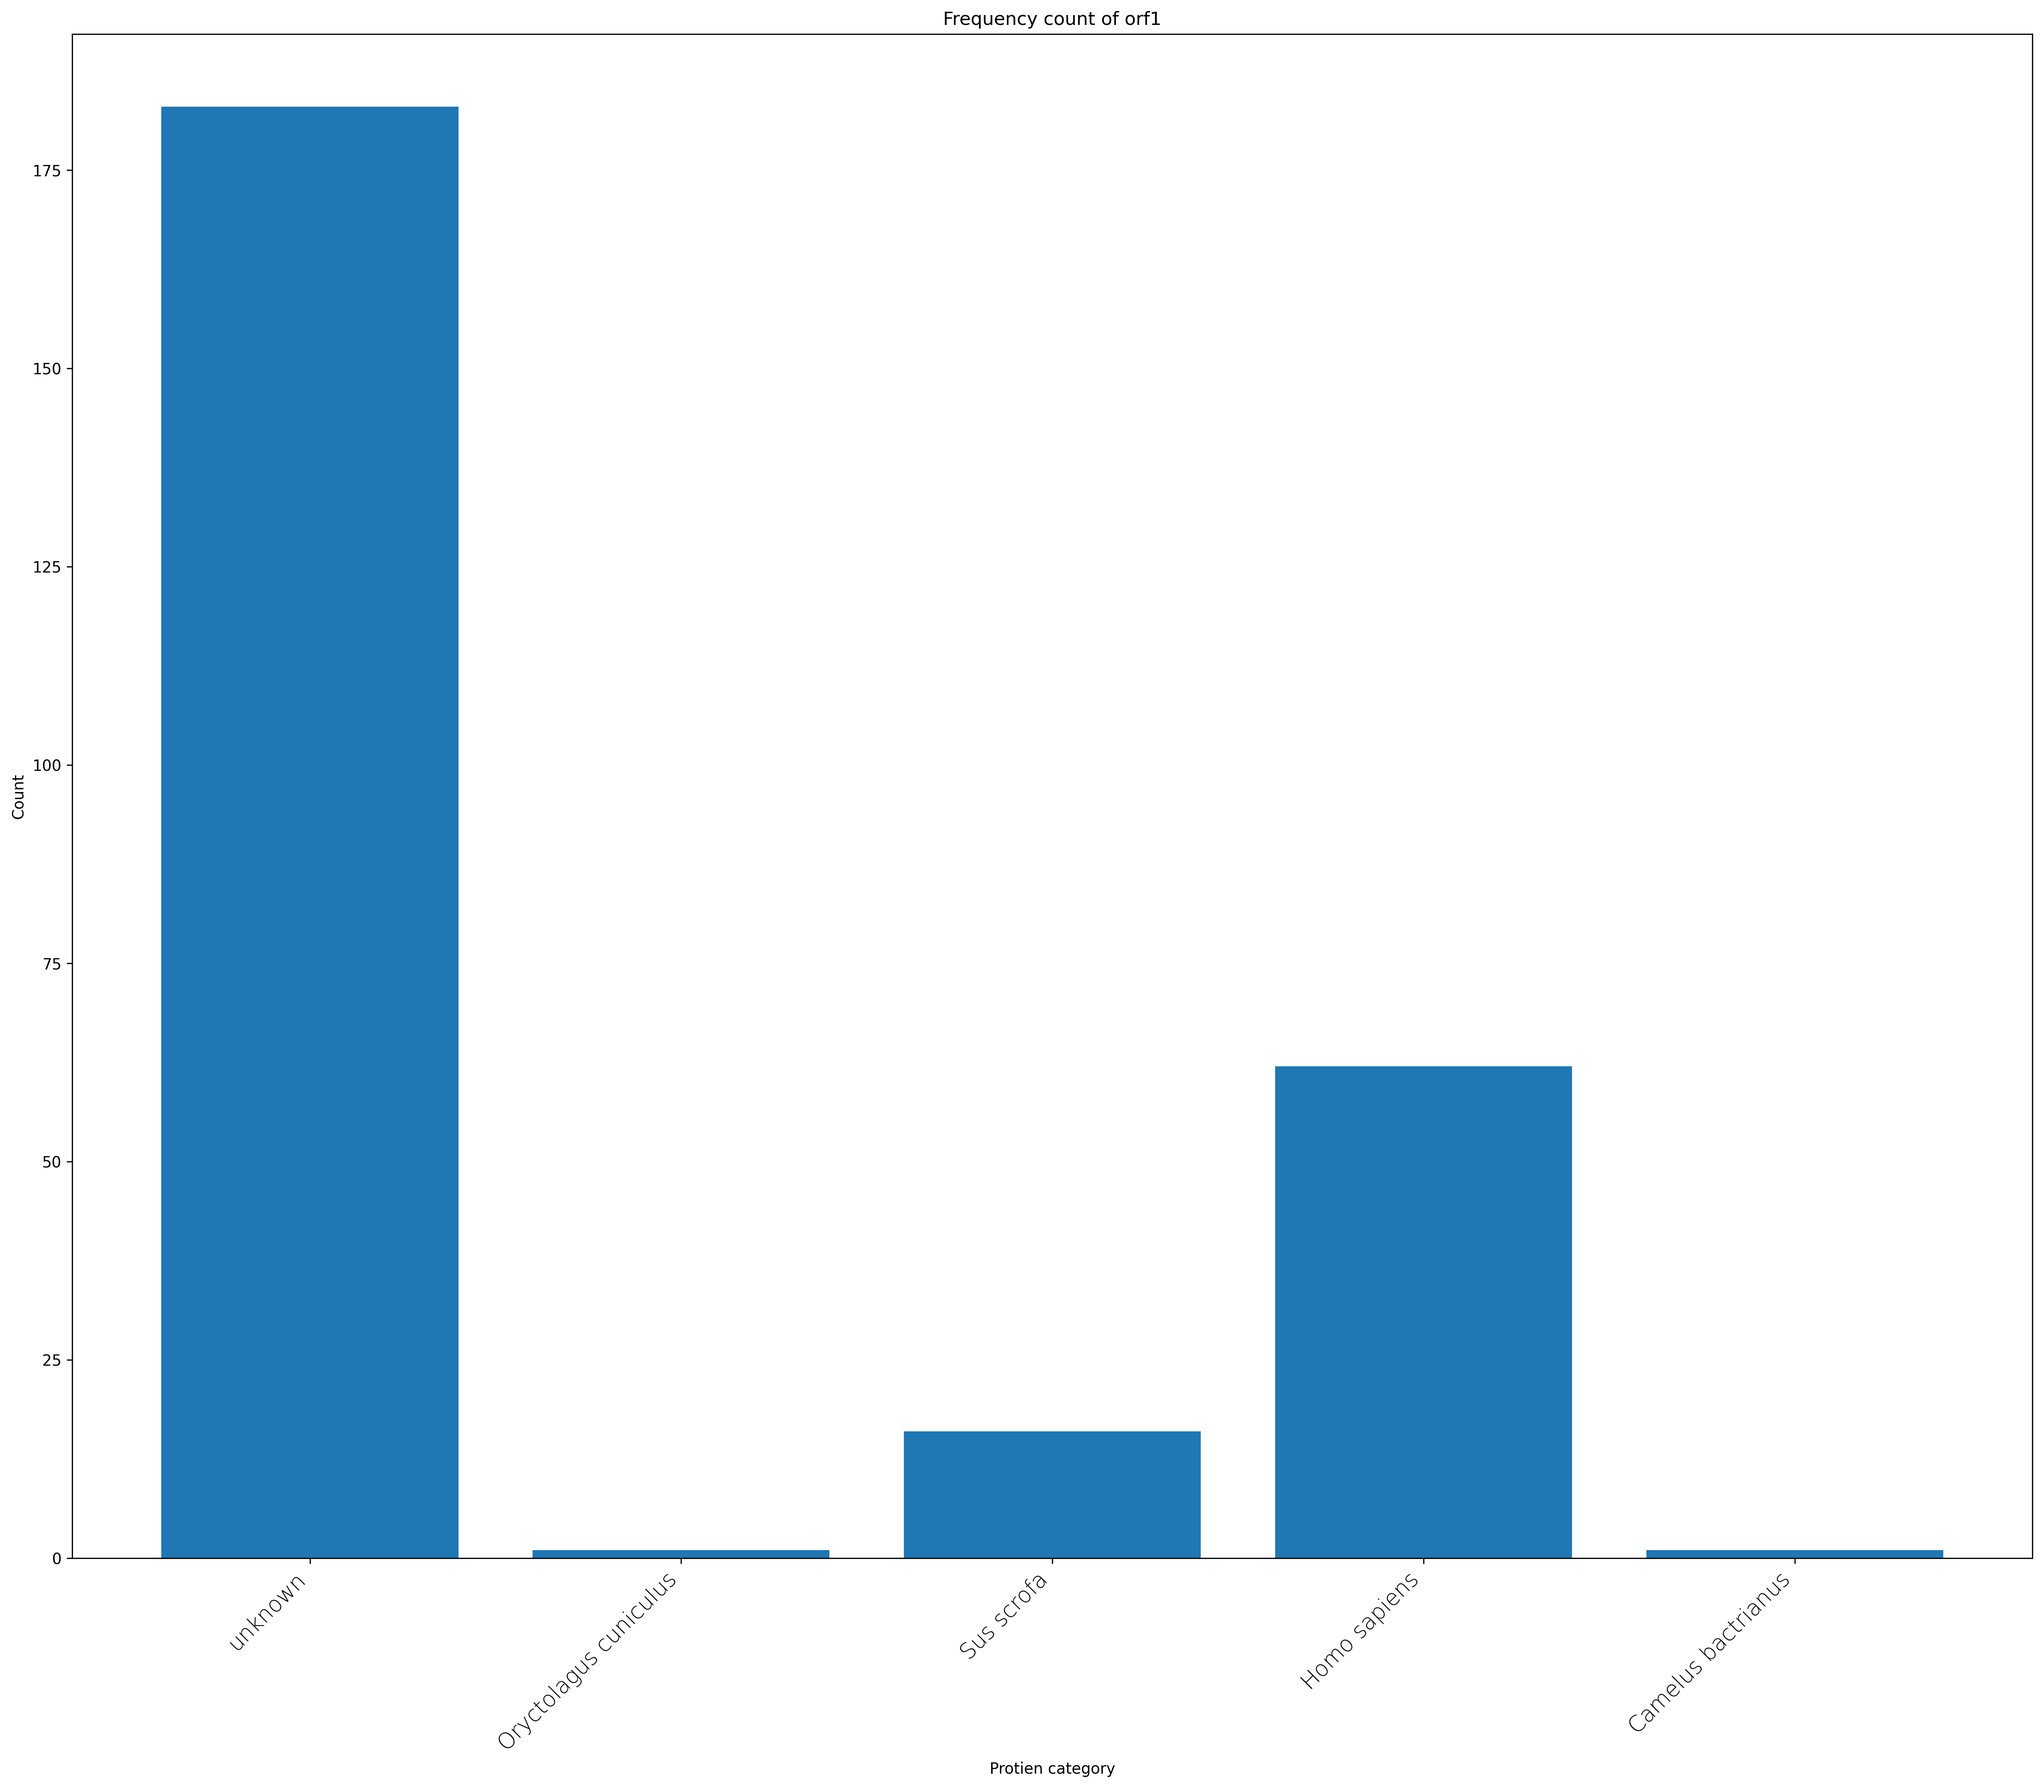
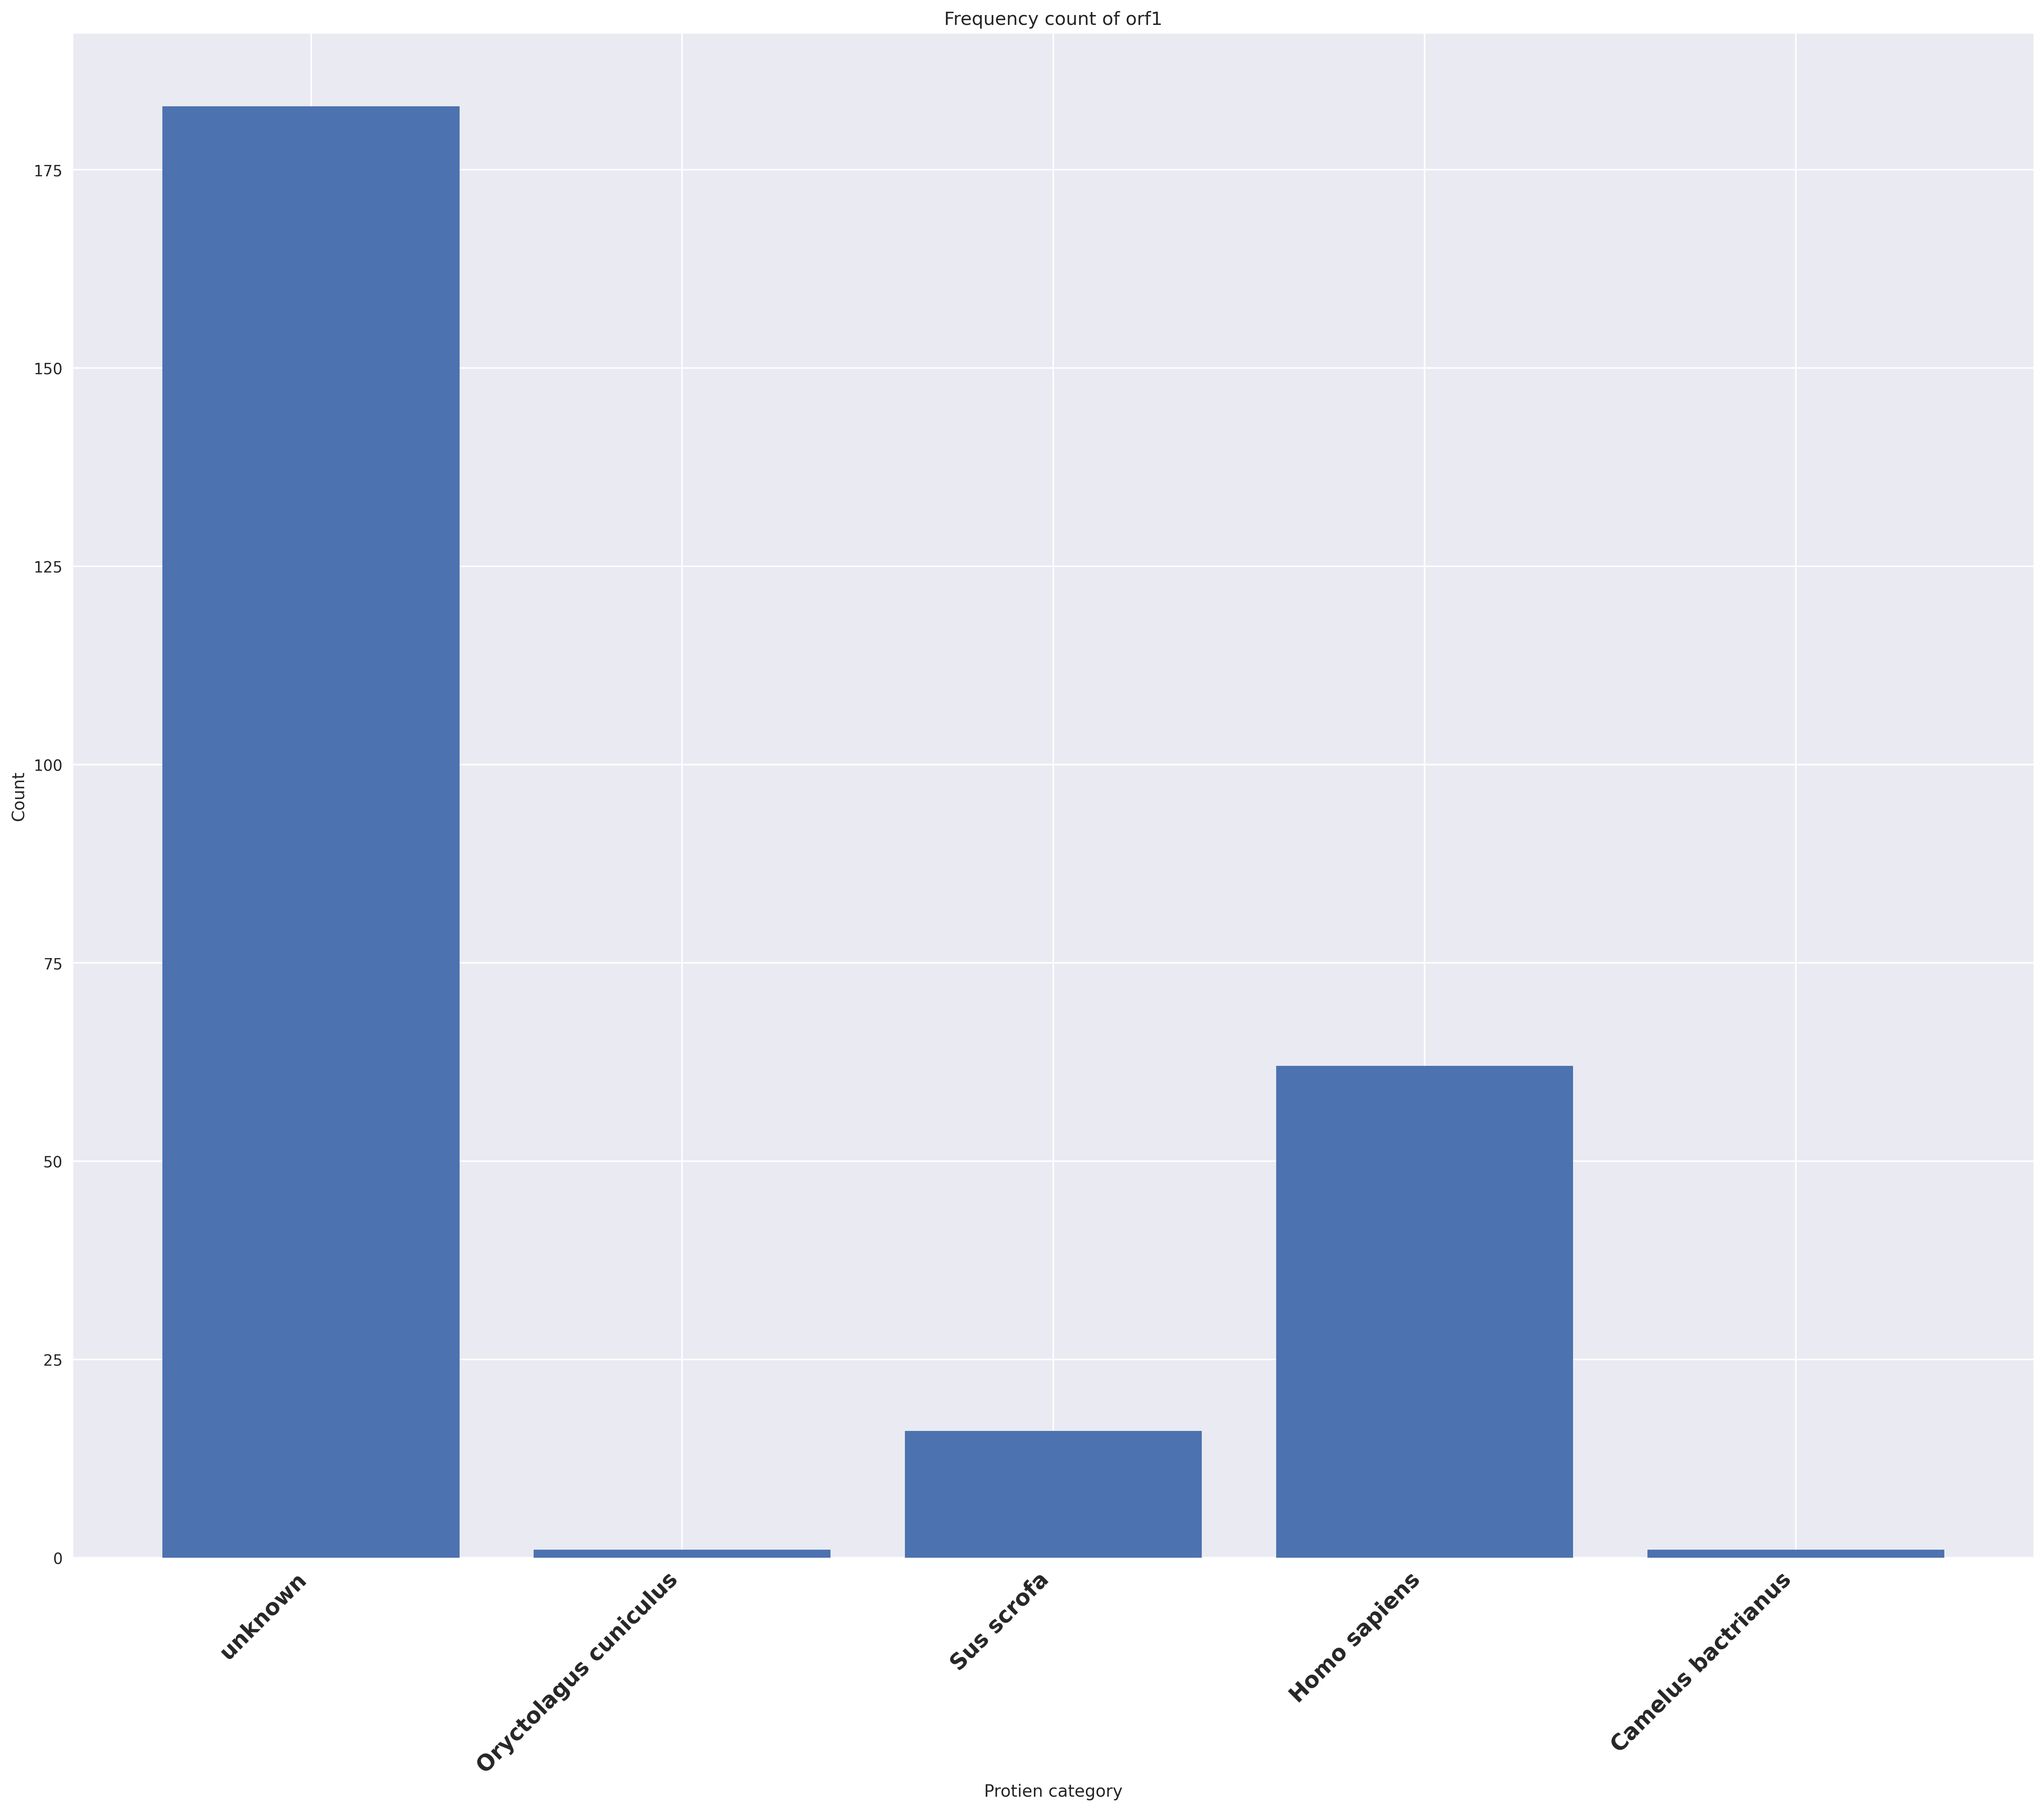
updating figure styles to see if it helps fonts

diff --git a/bin/hep.py b/bin/hep.py
@@ -303,14 +303,15 @@ if __name__ == '__main__':
         import matplotlib.pyplot as plt
         def plotCounter(d, p_name):
             print(f"{p_name}: {d}")
-            fig = plt.figure(1, [23, 18])
-            plt.bar(d.keys(), d.values())
-            plt.xticks(
-                rotation=45,
-                horizontalalignment='right',
-                fontweight='light',
-                fontsize='x-large'
-	        )
+            with plt.style.context("seaborn"):
+                fig = plt.figure(1, [23, 18])
+                plt.bar(d.keys(), d.values())
+                plt.xticks(
+                    rotation=45,
+                    horizontalalignment='right',
+                    fontweight='heavy',
+                    fontsize='x-large'
+	            )
             plt.xlabel('Protien category')
             plt.ylabel('Count')
             plt.title(f'Frequency count of {p_name}')
